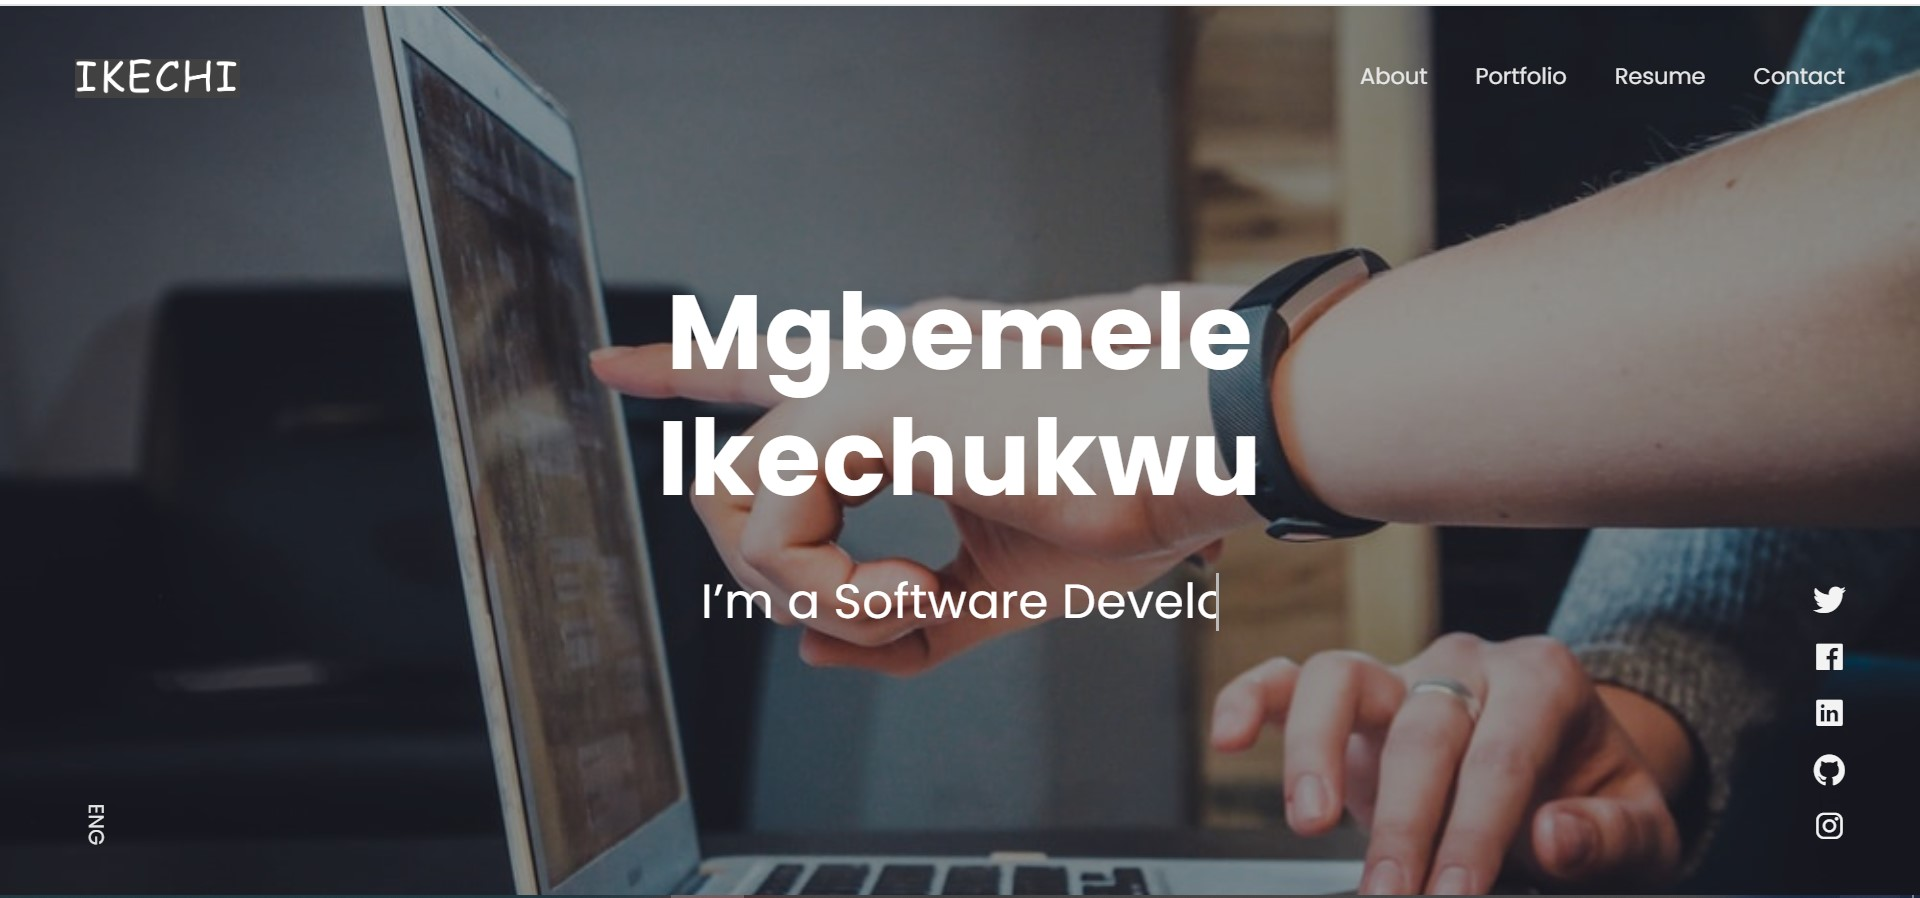
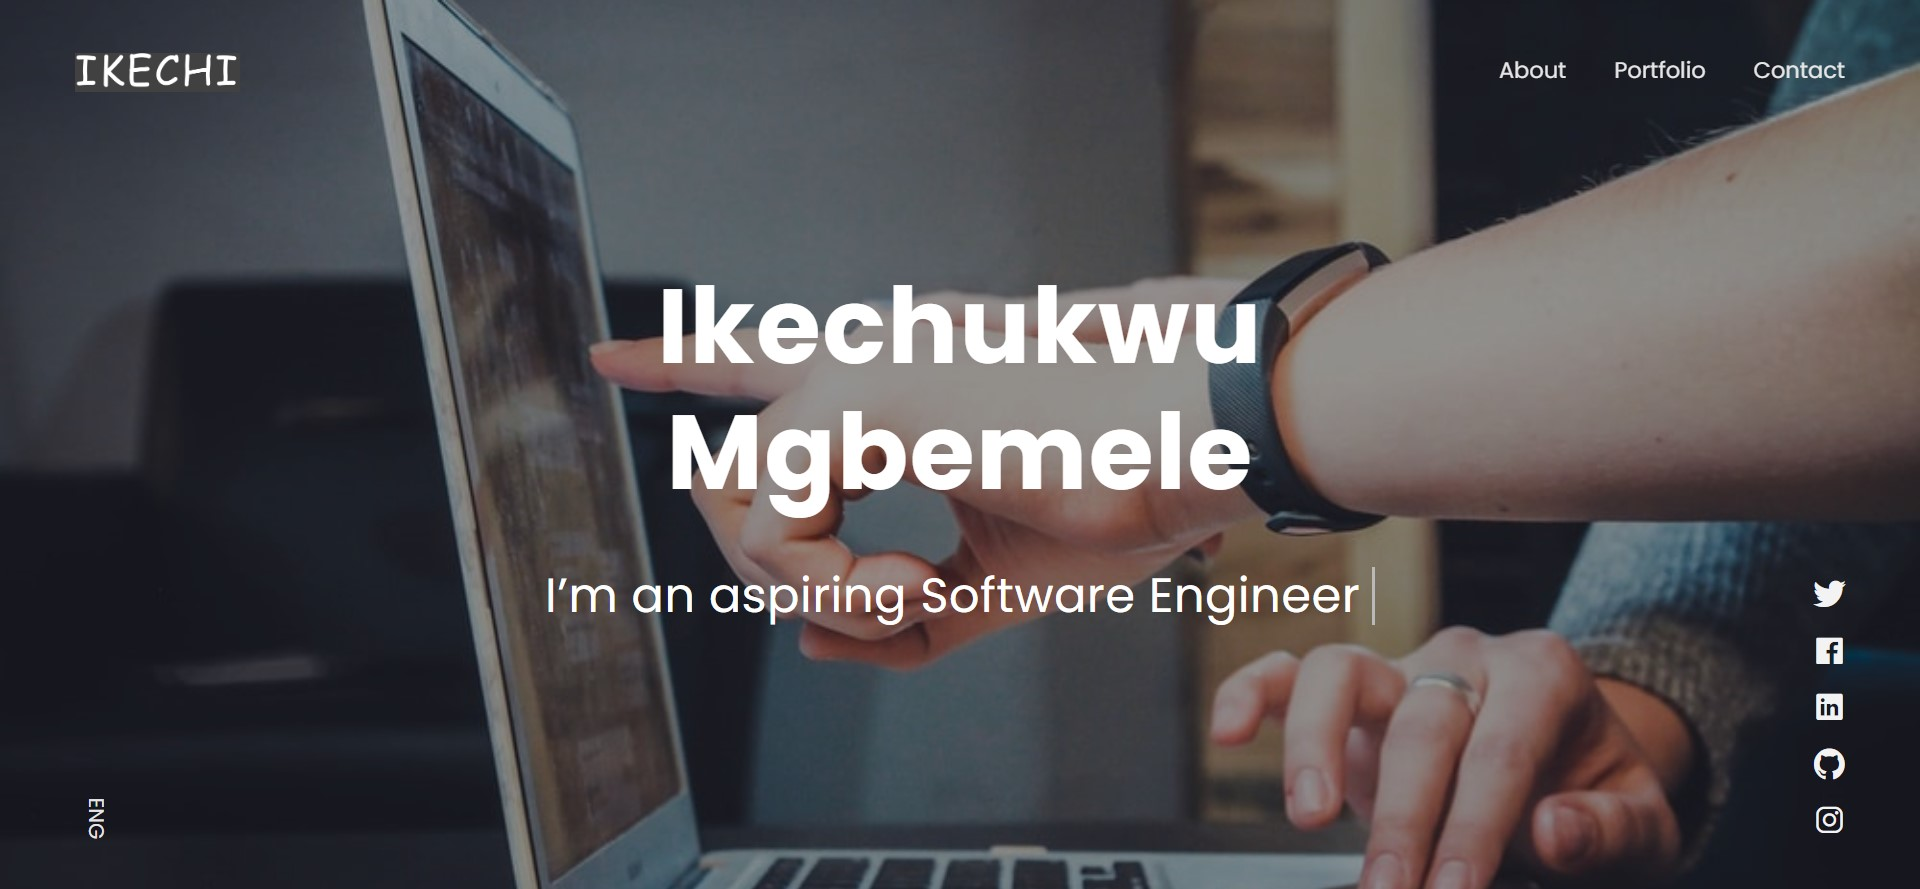
update portfolio and personal images and also update header text

diff --git a/index.html b/index.html
@@ -6,7 +6,7 @@
   <!-- Required meta tags-->
   <meta charset="utf-8">
   <!-- Title-->
-  <title>Ikechukwu - Software Developer</title>
+  <title>Ikechukwu - Software Engineer</title>
   <!-- Description-->
   <meta name="description" content="Ikechukwu - software development">
   <meta name="keywords" content="Ikechukwu Mgbemele, reactjs, next.js, nodejs, redux-toolkit, typescript, mongodb, mysql, scss, tailwindcss, chakra ui, bootstrap, software, developer">
@@ -26,11 +26,11 @@
     <meta property="og:url" content="https://ikechi.vercel.app/" />
     <meta
       property="og:title"
-      content="Ikechukwu — Software Developer - Builds pixel perfect, responsive, user friendly, and well functioning web applications that are accessible"
+      content="Ikechukwu — Software Engineer - Builds pixel perfect, responsive, user friendly, and well functioning software applications that are accessible"
     />
     <meta
       property="og:description"
-      content="Ikechukwu is a developer passionate about building beautiful, pixel perfect, responsive, user friendly, and well functioning web applications that help individuals and businesses achieve their goals"
+      content="Ikechukwu is a developer passionate about building beautiful, pixel perfect, responsive, user friendly, and well functioning software applications that help individuals and businesses achieve their goals"
     />
     <meta
       property="og:image"
@@ -42,11 +42,11 @@
     <meta property="twitter:url" content="https://ikechi.vercel.app/" />
     <meta
       property="twitter:title"
-      content="Ikechukwu Mgbemele — Software Developer - Builds pixel perfect, responsive, user friendly, and well functioning web applications that are accessible"
+      content="Ikechukwu Mgbemele — Software Engineer - Builds pixel perfect, responsive, user friendly, and well functioning software applications that are accessible"
     />
     <meta
       property="twitter:description"
-      content="Ikechukwu is a developer passionate about building beautiful, pixel perfect, responsive, user friendly, and well functioning web applications that help individuals and businesses achieve their goals"
+      content="Ikechukwu is a developer passionate about building beautiful, pixel perfect, responsive, user friendly, and well functioning software applications that help individuals and businesses achieve their goals"
     />
     <meta
       property="twitter:image"
@@ -161,7 +161,7 @@
                     <h2 class="content-subtitle">Who am I?</h2>
                     <h6 class="content-title">I'm Ikechukwu Mgbemele, a Computer Science Student</h6>
                     <div class="content-description">
-                      <p>I am an enthusiastic and passionate computer science major at Fisk University exploring novel and intelligent techniques for building great software products which users enjoy using.  I am very passionate, eager to learn, collaborative, and dedicated. My goal is to build products that people love using. I am very proficient in Python, Java, and TypeScript programming languages, and have developed some web applications using Reactjs, Next.js, TypeScript, Redux-toolkit, Nodejs with Expressjs, Chakra UI, SCSS, MongoDb, MySql, Bootstrap, and TailwindCSS, with most the source codes on Github. I am open to opportunities for experience and self-improvement.</p>
+                      <p>I am an enthusiastic and passionate computer science major at Fisk University exploring novel and intelligent techniques for building great software products which users enjoy using.  I am very passionate, eager to learn, collaborative, and dedicated. My goal is to build products that people love using. I am very proficient in Python, Java, and TypeScript programming languages, and have developed some software applications using Reactjs, Next.js, TypeScript, Redux-toolkit, Nodejs with Expressjs, Chakra UI, SCSS, MongoDb, MySql, Bootstrap, and TailwindCSS, with most the source codes on Github. I am open to opportunities for experience and self-improvement.</p>
                     </div>
                     <address class="content-info">
                       <div class="row">
@@ -292,7 +292,7 @@
                       <div class="review-client">
                         <div class="media">
                           <div class="client-details">
-                            <h6 class="client-name">Joshua Emeka</h6><span class="client-role">Software Developer</span>
+                            <h6 class="client-name">Joshua Emeka</h6><span class="client-role">Software Engineer</span>
                           </div>
                         </div>
                       </div><i class="icon ion-md-quote review-icon"></i>
